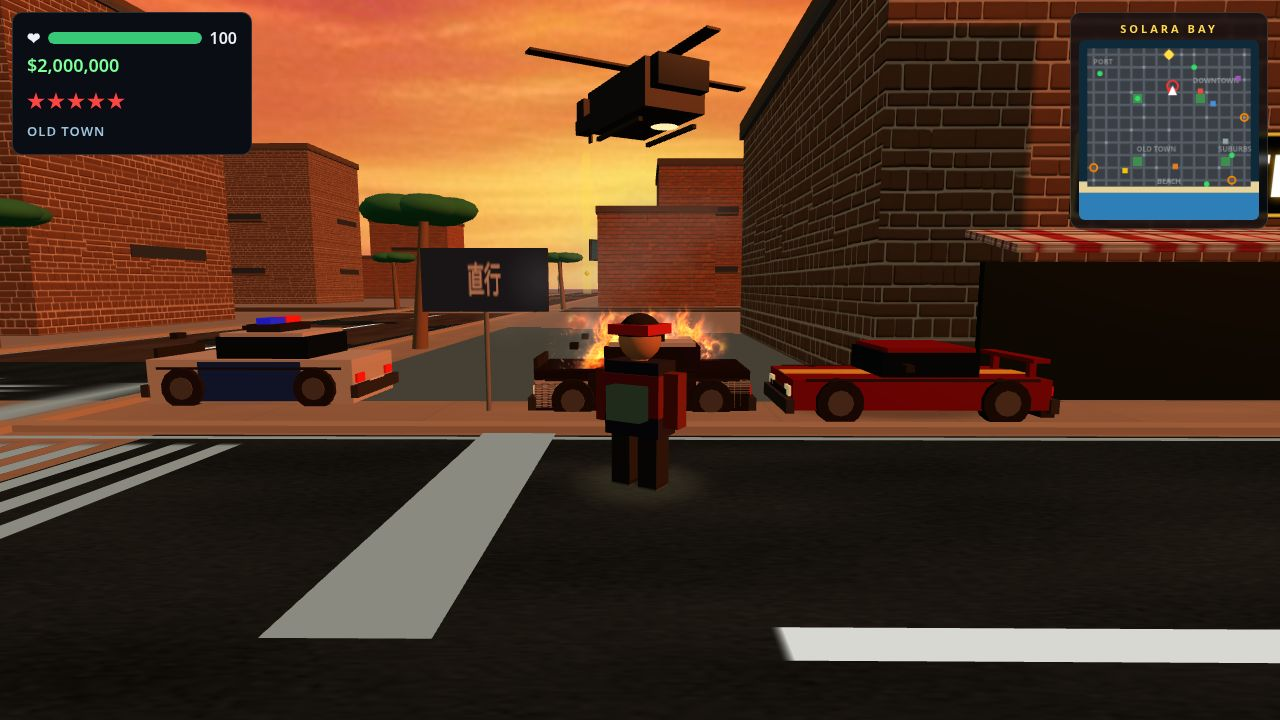
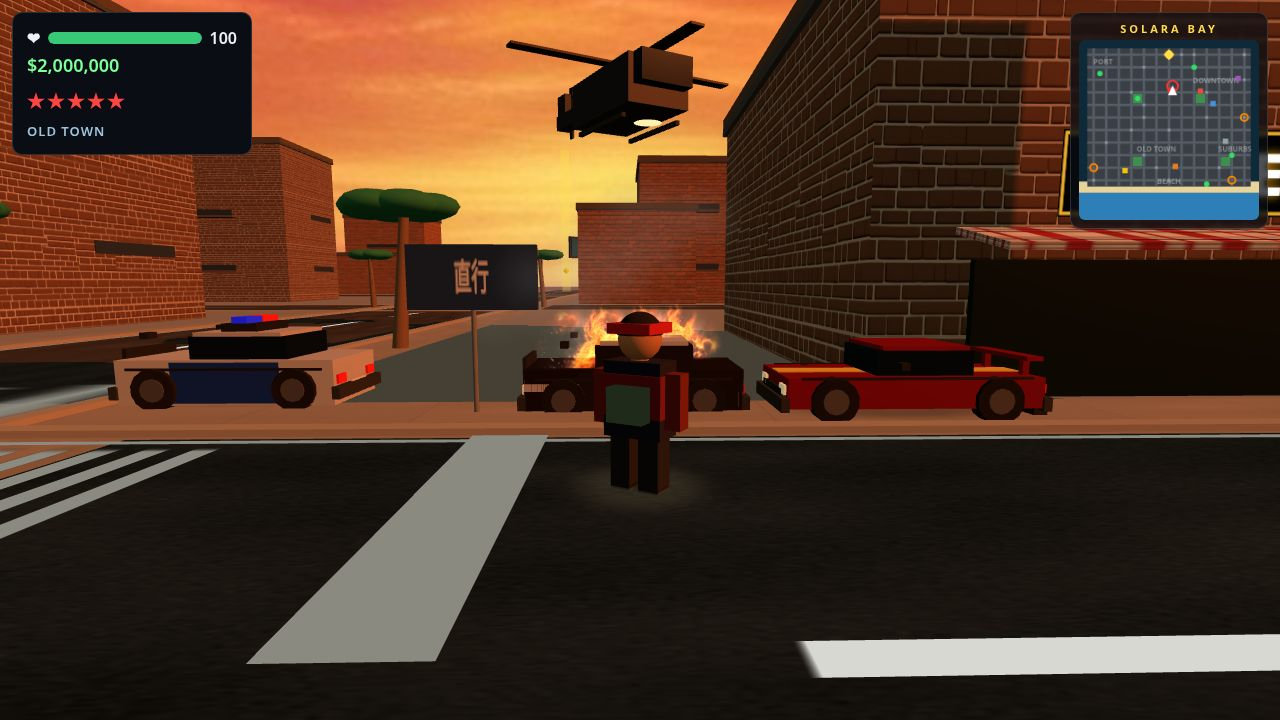
v28: red men out of the line of fire (round 16 one fix, the last one)

diff --git a/game/src/shots.js b/game/src/shots.js
@@ -143,9 +143,9 @@ function stageGunfight(game) {
   game.scene.add(barrier);
   for(const wy of[4.45,11.45]){const w=new ME(new BX(13,1.4,.1),new MB({color:0x2c3e50}));w.position.set(-151.7,wy,201.6);game.scene.add(w);}
   game.combat.spawnGunman(-178.1,196.1).mesh.scale.setScalar(1.15);
-  const g2 = game.combat.spawnGunman(-174.8, 198.5);
+  const g2 = game.combat.spawnGunman(-173.2, 194.7);
   g2.mesh.rotation.y = .6;
-  const th = game.combat.spawnThug(-173.6, 198.5);
+  const th = game.combat.spawnThug(-172.3, 194.9);
   th.mesh.rotation.x = .3;
   th.mesh.scale.y = .85;
   for (const e of game.combat.enemies) e.mesh.children[8].visible = e.mesh.children[9].visible = false;

diff --git a/game/src/combat.js b/game/src/combat.js
@@ -251,7 +251,7 @@ export function createCombat(game) {
     }
     const tg = bestEnemy || bestCar;
     const end=game.aim||(tg?new V3(tg.pos.x,1.2,tg.pos.z):new V3(player.pos.x+fx*bestDist,1.2,player.pos.z+fz*bestDist));
-    const tf = player.weapon === 'rifle' && rf ? rf.localToWorld(new V3(0, .02, -.2)) : muzzle;
+    const tf = player.weapon === 'rifle' && rf ? rf.localToWorld(new V3(0, .02, .93)) : muzzle;
     spawnTracer(tf, end, game.player.weapon === 'rifle' ? 0xff9500 : 0xffe14d);
     spawnFlash(muzzle);
     spawnCasing(player.pos, player.heading);

diff --git a/probe28.py b/probe28.py
@@ -1,0 +1,81 @@
+import sys, asyncio, json
+from playwright.async_api import async_playwright
+
+JS = r"""
+() => {
+  const g = window.__game;
+  const out = {};
+  const V3 = g.camera.position.constructor;
+  function proj(v3) {
+    const v = v3.clone().project(g.camera);
+    return [Math.round((v.x + 1) / 2 * 1280), Math.round((1 - v.y) / 2 * 720)];
+  }
+  const cam = g.camera.position;
+  out.camera = [+cam.x.toFixed(2), +cam.y.toFixed(2), +cam.z.toFixed(2)];
+  // camera right vector (screen-right) in world, XZ-plane
+  const right = new V3().setFromMatrixColumn(g.camera.matrixWorld, 0);
+  const rightXZ = [right.x, right.z];
+  const rl = Math.hypot(rightXZ[0], rightXZ[1]);
+  const leftXZ = [-rightXZ[0] / rl, -rightXZ[1] / rl]; // screen-left, XZ
+  out.screenLeftXZ = [+leftXZ[0].toFixed(3), +leftXZ[1].toFixed(3)];
+  // muzzle tip + current tracer start + aim
+  const rf = g.player.mesh.userData.rifle;
+  const tip = rf.localToWorld(new V3(0, 0.02, 0.93));
+  const body = rf.localToWorld(new V3(0, 0.02, -0.2));
+  out.muzzleTip = proj(tip);
+  out.tracerStartNow = proj(body);
+  out.aim = proj(g.aim);
+  out.aimWorld = [+g.aim.x.toFixed(2), +g.aim.y.toFixed(2), +g.aim.z.toFixed(2)];
+  // tracer line samples from muzzle tip to aim (screen)
+  out.tracerFromTip = [];
+  for (let i = 0; i <= 10; i++) {
+    const p = tip.clone().lerp(g.aim, i / 10);
+    out.tracerFromTip.push(proj(p));
+  }
+  out.tracerFromBody = [];
+  for (let i = 0; i <= 10; i++) {
+    const p = body.clone().lerp(g.aim, i / 10);
+    out.tracerFromBody.push(proj(p));
+  }
+  // enemies: head-top / head-centre / torso-top / torso-bottom projections + candidate move
+  out.enemies = [];
+  for (const e of g.combat.enemies) {
+    const sy = e.mesh.scale.y;
+    const headTopY = 2.11 * sy;
+    const info = {
+      kind: e.kind,
+      pos: [+e.pos.x.toFixed(2), +e.pos.z.toFixed(2)],
+      scaleY: sy,
+      headTop: proj(new V3(e.pos.x, headTopY, e.pos.z)),
+      headCentre: proj(new V3(e.pos.x, 1.85 * sy, e.pos.z)),
+      torsoTop: proj(new V3(e.pos.x, 1.6 * sy, e.pos.z)),
+      torsoBottom: proj(new V3(e.pos.x, 0.7 * sy, e.pos.z)),
+    };
+    // candidate: 1.6m toward camera + 0.4m screen-left (XZ plane)
+    const dx = cam.x - e.pos.x, dz = cam.z - e.pos.z;
+    const dl = Math.hypot(dx, dz);
+    const toCam = [dx / dl, dz / dl];
+    const nx = e.pos.x + toCam[0] * 1.6 + leftXZ[0] * 0.4;
+    const nz = e.pos.z + toCam[1] * 1.6 + leftXZ[1] * 0.4;
+    info.candidate = [+nx.toFixed(2), +nz.toFixed(2)];
+    info.candidateHeadTop = proj(new V3(nx, headTopY, nz));
+    info.candidateHeadCentre = proj(new V3(nx, 1.85 * sy, nz));
+    info.candidateTorsoTop = proj(new V3(nx, 1.6 * sy, nz));
+    out.enemies.push(info);
+  }
+  return out;
+}
+"""
+
+async def main():
+    shot = sys.argv[1] if len(sys.argv) > 1 else 'gunfight'
+    async with async_playwright() as p:
+        b = await p.chromium.launch(args=['--use-gl=swiftshader', '--enable-unsafe-swiftshader', '--no-sandbox'])
+        pg = await b.new_page(viewport={'width': 1280, 'height': 720})
+        await pg.goto(f'http://localhost:8080/?shot={shot}&seed=7', wait_until='load')
+        await pg.wait_for_function('window.__shotReady === true', timeout=60000)
+        await pg.wait_for_timeout(300)
+        print(json.dumps(await pg.evaluate(JS), indent=1))
+        await b.close()
+
+asyncio.run(main())

diff --git a/probe28b.py b/probe28b.py
@@ -1,0 +1,62 @@
+import sys, asyncio, json
+from playwright.async_api import async_playwright
+
+JS = r"""
+() => {
+  const g = window.__game;
+  const out = {};
+  const V3 = g.camera.position.constructor;
+  function proj(v3) {
+    const v = v3.clone().project(g.camera);
+    return [Math.round((v.x + 1) / 2 * 1280), Math.round((1 - v.y) / 2 * 720)];
+  }
+  const cam = g.camera.position;
+  const right = new V3().setFromMatrixColumn(g.camera.matrixWorld, 0);
+  const rl = Math.hypot(right.x, right.z);
+  const leftXZ = [-right.x / rl, -right.z / rl];
+  // tracer from muzzle tip to aim (screen)
+  const rf = g.player.mesh.userData.rifle;
+  const tip = rf.localToWorld(new V3(0, 0.02, 0.93));
+  const tipS = proj(tip), aimS = proj(g.aim);
+  out.tracer = [tipS, aimS];
+  function tracerYatX(sx) {
+    const [x0, y0] = tipS, [x1, y1] = aimS;
+    if (sx < Math.min(x0, x1) || sx > Math.max(x0, x1)) return null;
+    return Math.round(y0 + (y1 - y0) * (sx - x0) / (x1 - x0));
+  }
+  out.grid = [];
+  // base positions: g2 gunman (-174.8,198.5) headTop 2.11, th thug (-173.6,198.5) headTop 1.79
+  const bases = [['g2', -174.8, 198.5, 2.11], ['th', -173.6, 198.5, 1.79]];
+  for (const [nm, bx, bz, ht] of bases) {
+    for (const dl of [0, 1, 2, 3, 4, 5, 6, -1, -2]) {        // metres screen-left (+)
+      for (const dc of [0, 1.6, 3.2, -1.6]) {                  // metres toward camera (+)
+        const dx = cam.x - bx, dz = cam.z - bz;
+        const dlen = Math.hypot(dx, dz);
+        const nx = bx + (dx / dlen) * dc + leftXZ[0] * dl;
+        const nz = bz + (dz / dlen) * dc + leftXZ[1] * dl;
+        const hc = proj(new V3(nx, ht - 0.26, nz));
+        const htop = proj(new V3(nx, ht, nz));
+        const ttop = proj(new V3(nx, ht - 0.51, nz));
+        const feet = proj(new V3(nx, 0, nz));
+        const ty = tracerYatX(hc[0]);
+        // clear if head centre x is outside tracer x-range by 35px, or tracer y is above headTop-5 or below feet+5
+        const clear = (hc[0] + 35 < 351) || (hc[0] - 35 > 708) || (ty !== null && (ty < htop[1] - 5 || ty > feet[1] + 5)) || ty === null;
+        out.grid.push({ man: nm, dLeft: dl, dCam: dc, pos: [+nx.toFixed(2), +nz.toFixed(2)], headX: hc[0], headTopY: htop[1], torsoTopY: ttop[1], feetY: feet[1], tracerY: ty, clear });
+      }
+    }
+  }
+  return out;
+}
+"""
+
+async def main():
+    async with async_playwright() as p:
+        b = await p.chromium.launch(args=['--use-gl=swiftshader', '--enable-unsafe-swiftshader', '--no-sandbox'])
+        pg = await b.new_page(viewport={'width': 1280, 'height': 720})
+        await pg.goto('http://localhost:8080/?shot=gunfight&seed=7', wait_until='load')
+        await pg.wait_for_function('window.__shotReady === true', timeout=60000)
+        await pg.wait_for_timeout(300)
+        print(json.dumps(await pg.evaluate(JS), indent=0))
+        await b.close()
+
+asyncio.run(main())
